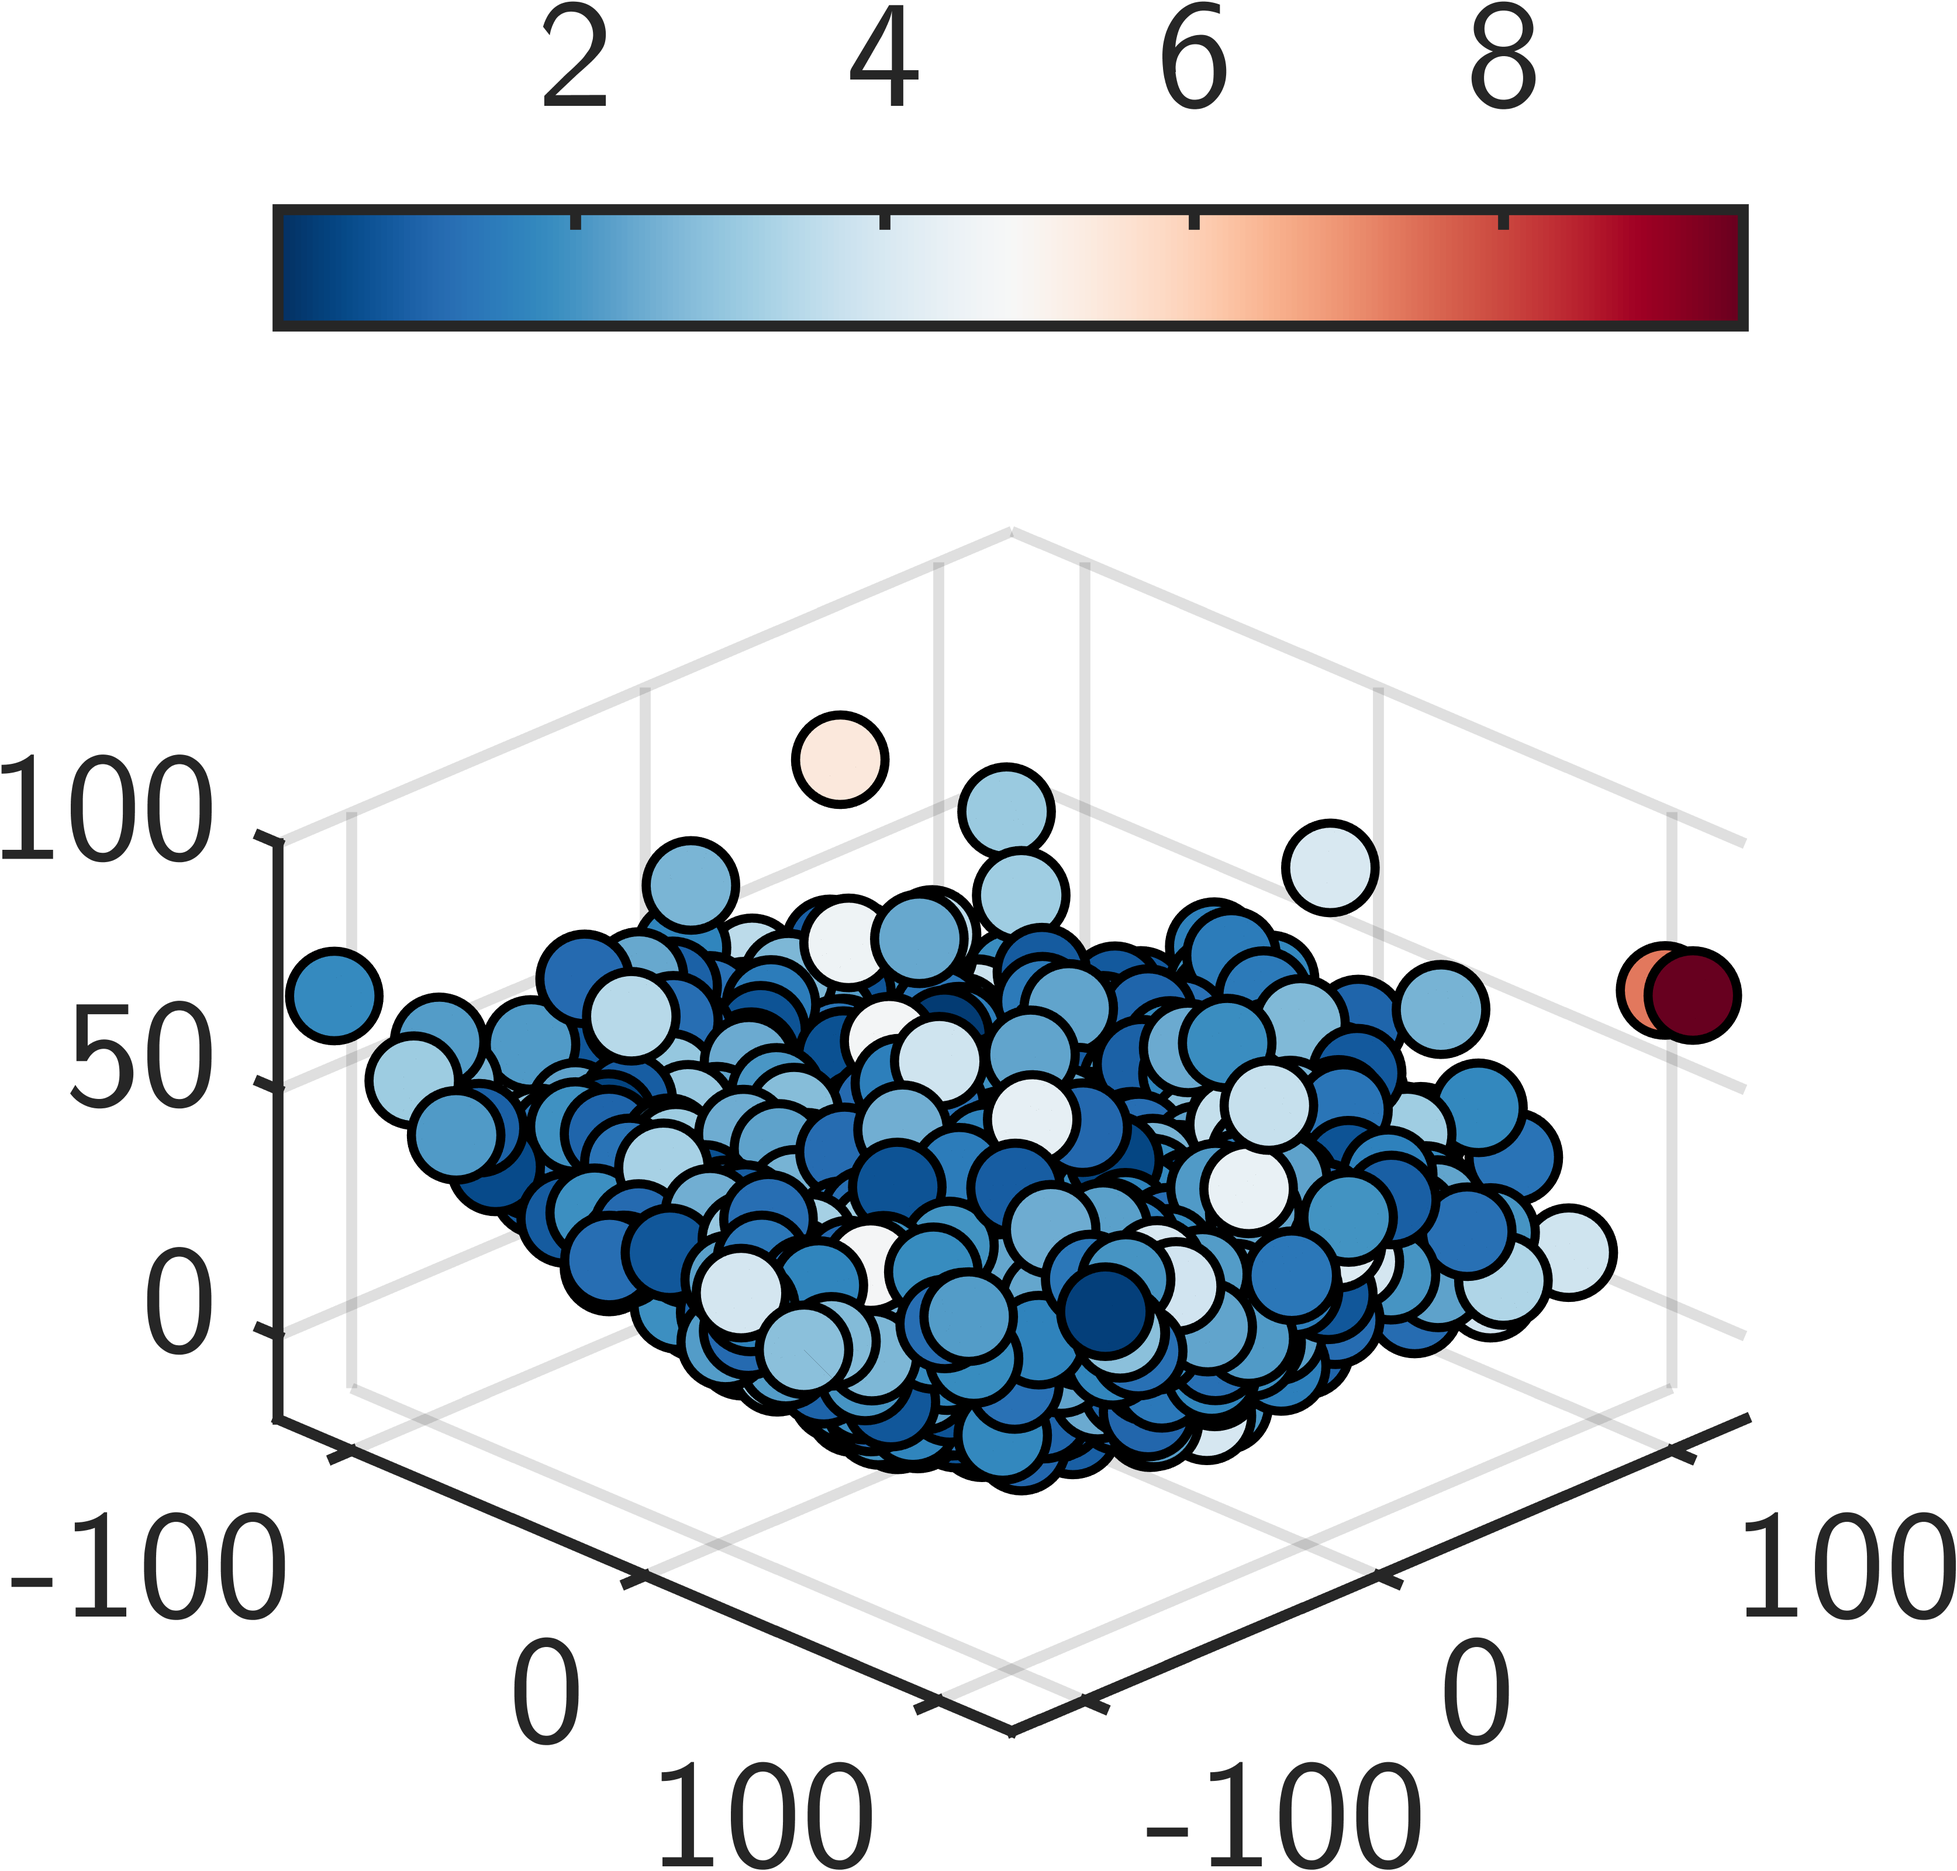
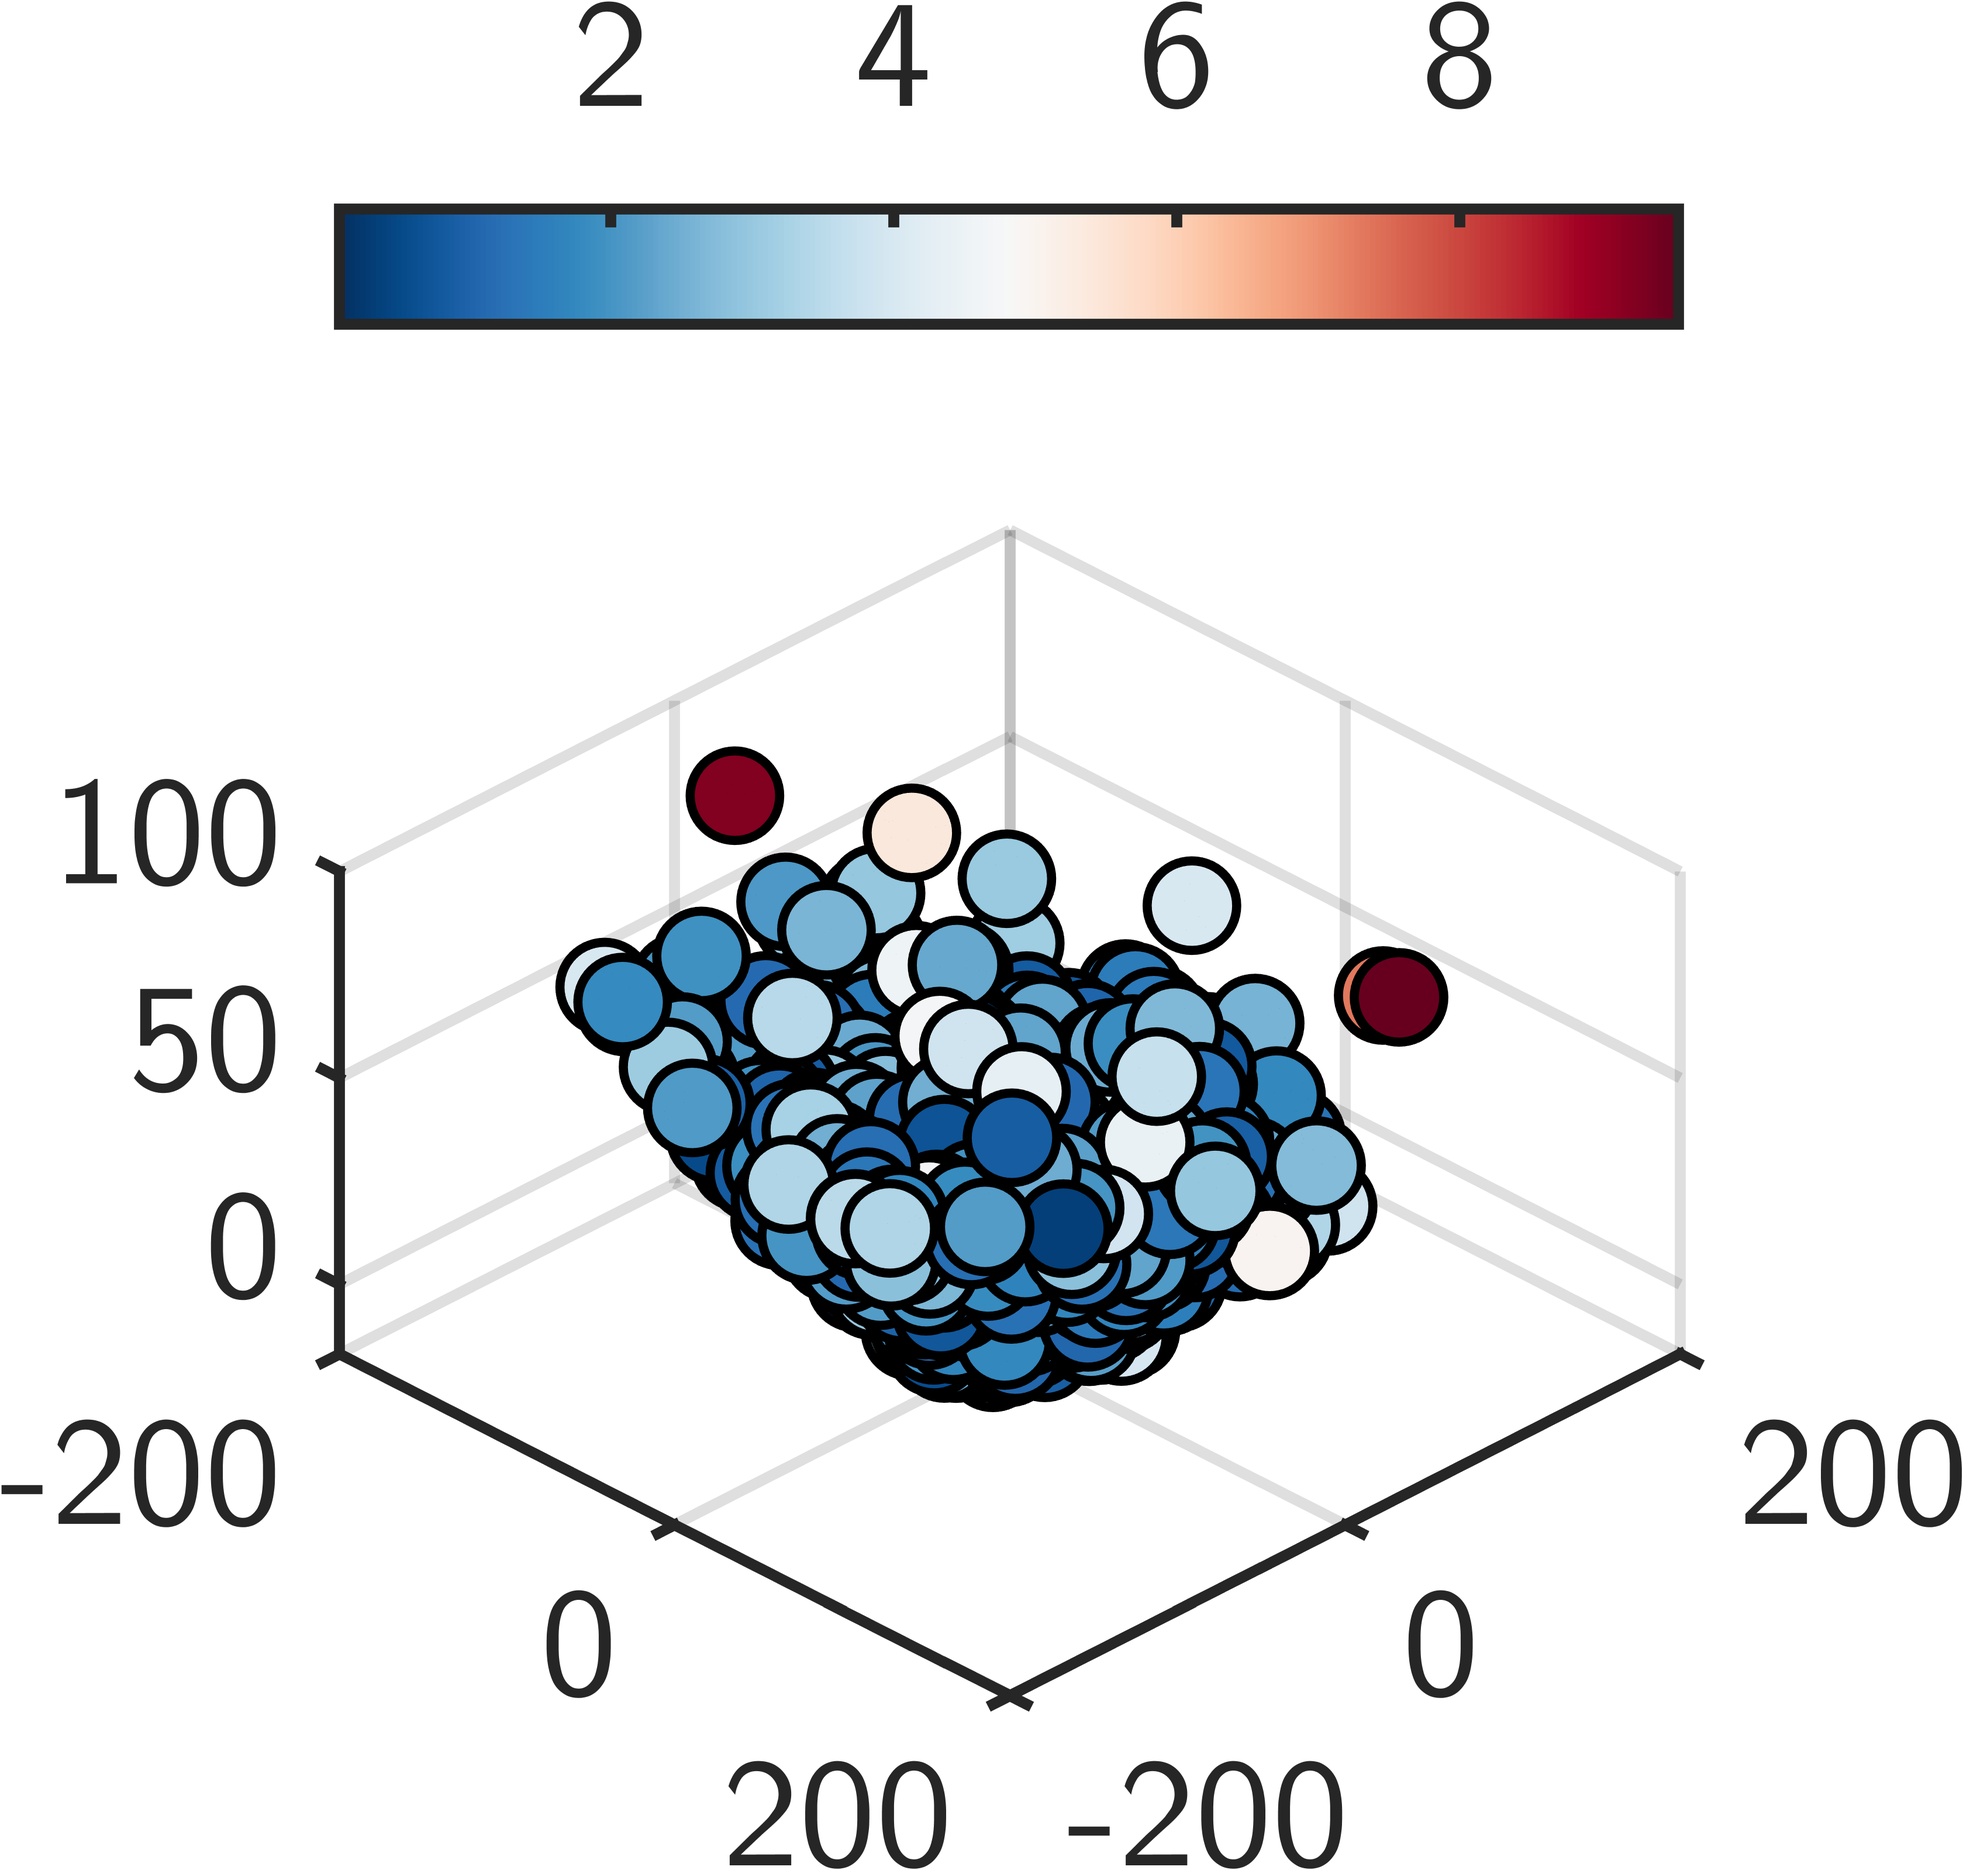
Inverse model plotting

diff --git a/matlab/repetability_analysis.m b/matlab/repetability_analysis.m
@@ -244,9 +244,13 @@ set(fig, 'Units', 'inches');
 width = 1.25;
 height = 1.25;
 set(fig, 'Position', [0, 0, width*fig_s, height*fig_s]);
-view([45,37.5])
-xlim([-125,125])
-ylim([-125,125])
+view([45,45])
+xlim([-200,200])
+ylim([-200,200])
+xticks([-200,0,200])
+yticks([-200,0,200])
+xtickangle(0)
+ytickangle(0)
 
 % axis formatting
 set(findobj(gcf,'type','axes'),'FontSize',ax_font_size,'LineWidth',1.5);
@@ -296,9 +300,13 @@ set(fig, 'Units', 'inches');
 width = 1.25;
 height = 1.25;
 set(fig, 'Position', [0, 0, width*fig_s, height*fig_s]);
-view([45,37.5])
-xlim([-125,125])
-ylim([-125,125])
+view([45,45])
+xlim([-200,200])
+ylim([-200,200])
+xticks([-200,0,200])
+yticks([-200,0,200])
+xtickangle(0)
+ytickangle(0)
 
 % axis formatting
 set(findobj(gcf,'type','axes'),'FontSize',ax_font_size,'LineWidth',1.5);
@@ -333,7 +341,51 @@ end
 fig = figure(41); clf; hold on; grid on
     
 i_data = T_f.X_test_inverse;
-i_metric = load('../metrics/forward_2023_09_18-19_38_06_5_883mm.mat');
+i_metric = load('../metrics/inverse_2023_09_19-01_01_05_4_070pwm.mat');
+
+% figure formatting
+set(gcf,'color','w');
+set(fig, 'Units', 'inches');
+width = 1.25;
+height = 1.25;
+set(fig, 'Position', [0, 0, width*fig_s, height*fig_s]);
+view([45,45])
+xlim([-200,200])
+ylim([-200,200])
+xticks([-200,0,200])
+yticks([-200,0,200])
+xtickangle(0)
+ytickangle(0)
+
+cmap = colormap(gca,flipud(brewermap([],'Spectral')));
+clim([min(i_metric.test_error),max(i_metric.test_error)]); % set the colormap limits
+cb = colorbar('northoutside','LineWidth',1.5,'FontSize',ax_font_size);
+clim([min(i_metric.test_error),max(i_metric.test_error)]);
+
+norm_error = (i_metric.test_error - min(i_metric.test_error)) / ...
+             (max(i_metric.test_error) - min(i_metric.test_error));
+color_indices = round(1 + norm_error * (size(cmap,1)-1));
+
+for i = 1:length(cmap)
+    s=scatter3(i_data(i,:,1)-x_h,i_data(i,:,3)-z_h,i_data(i,:,2)-y_h,[],cmap(color_indices(i),:),'filled','LineWidth',1.25,'Marker','o','MarkerEdgeColor',[0,0,0]);
+    plot3(i_data(i,:,1)-x_h,i_data(i,:,3)-z_h,i_data(i,:,2)-y_h,'Color',[0, 0, 0, 0.5],'LineWidth',2)
+    % set(s, 'MarkerEdgeAlpha', 0.5, 'MarkerFaceAlpha', 0.5)
+    s.SizeData = 100;   
+end
+
+% axis formatting
+set(findobj(gcf,'type','axes'),'FontSize',ax_font_size,'LineWidth',1.5);
+
+% export fig
+if export_fig
+    exportgraphics(gcf,'../figures/inverse/error.png','Resolution',300*fig_s)
+end
+
+%% Figure 4.2
+fig = figure(42); clf; hold on;
+
+histogram(i_metric.test_error,'facecolor',map(1,:),'facealpha',.2,'EdgeColor','none')
+histogram(i_metric.test_error,'EdgeColor',map(1,:),'linewidth',3,'DisplayStyle','stairs')
 
 % figure formatting
 set(gcf,'color','w');
@@ -342,7 +394,15 @@ width = 1.25;
 height = 1.25;
 set(fig, 'Position', [0, 0, width*fig_s, height*fig_s]);
 
+% axis formatting
+set(findobj(gcf,'type','axes'),'FontSize',ax_font_size,'LineWidth',1.5);
 
-for i = 1:size(i_data,1)
-    plot3(i_data(i,:,1),i_data(i,:,3),i_data(i,:,2))
+% export fig
+if export_fig
+    exportgraphics(gcf,'../figures/inverse/error_hist.png','Resolution',300*fig_s)
 end
+
+%% Figure 4.3
+fig = figure(43); clf; hold on;
+
+plot(T_f.)
